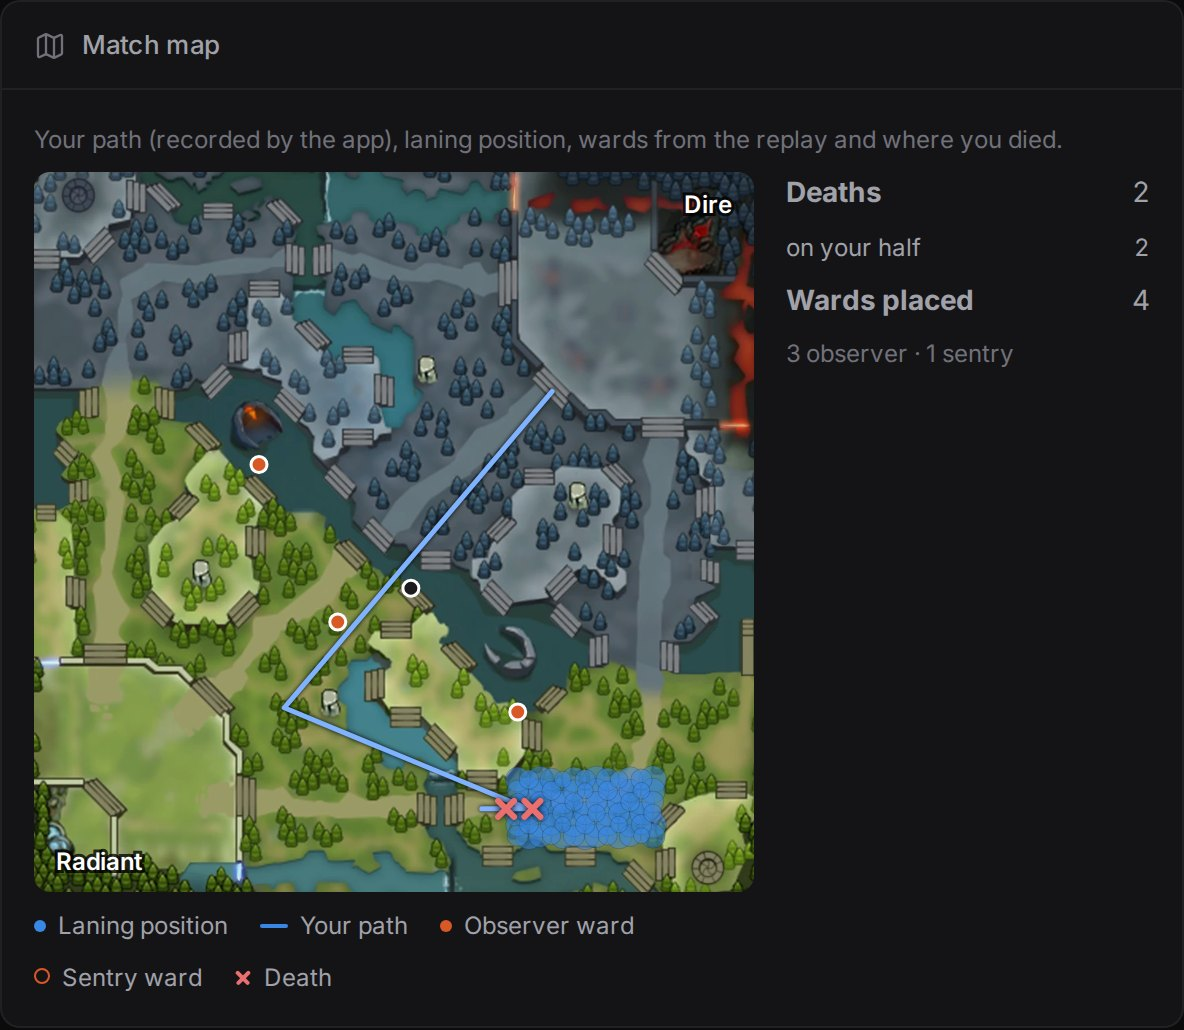
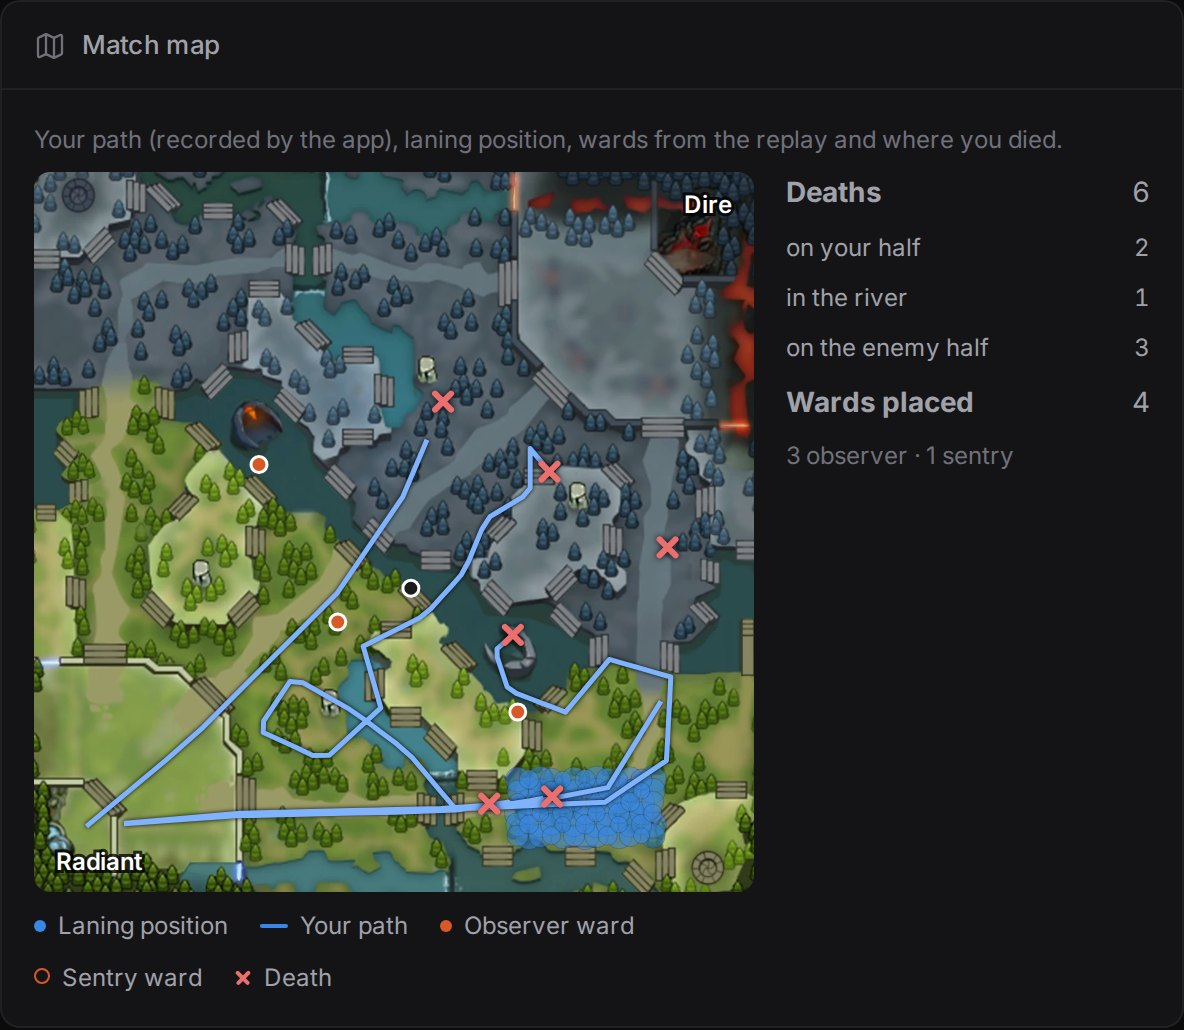
Site map: the real minimap with a believable route and six deaths
The demo match of the site pictures now walks a Radiant safe-lane Juggernaut
route (lane, jungle, mid, Dire jungle, Roshan, a push) with six deaths at
the parsed replay's times. The review map breaks the path at a death and at
a jump no hero can walk, so a respawn no longer draws a line to the fountain.
Site pictures get a version in their URLs so browsers drop the old ones.

Claude-Session: https://claude.ai/code/session_01R8qFseNjtRCaUJVPRqFekm

diff --git a/site/index.html b/site/index.html
@@ -25,7 +25,7 @@
     <link rel="apple-touch-icon" href="assets/icon.png" />
     <link rel="preload" href="assets/fonts/montserrat-cyrillic-wght-normal.woff2" as="font" type="font/woff2" crossorigin />
     <link rel="preload" href="assets/fonts/inter-cyrillic-wght-normal.woff2" as="font" type="font/woff2" crossorigin />
-    <link rel="stylesheet" href="styles.css" />
+    <link rel="stylesheet" href="styles.css?v=2" />
   </head>
   <body>
     <a class="skip" href="#main" data-i18n="skip">Перейти к содержанию</a>
@@ -88,8 +88,8 @@
 
           <div class="hero-stage" aria-hidden="true">
             <figure class="win win-back win-game"><img src="assets/game/ingame-ru.jpg" data-game="ingame" alt="" width="1600" height="900" /></figure>
-            <figure class="win win-front"><img src="assets/app/ru/review-ai.jpg" data-img="review-ai" alt="" width="1080" height="930" /></figure>
-            <img class="hero-card" src="assets/overlay/ru/lowhp.webp" data-ov="lowhp" alt="" width="756" />
+            <figure class="win win-front"><img src="assets/app/ru/review-ai.jpg?v=2" data-img="review-ai" alt="" width="1080" height="930" /></figure>
+            <img class="hero-card" src="assets/overlay/ru/lowhp.webp?v=2" data-ov="lowhp" alt="" width="756" />
           </div>
         </div>
       </section>
@@ -103,32 +103,32 @@
           </header>
           <div class="tiles">
             <article class="tile">
-              <div class="tile-art" style="--bg: url(assets/game/fight.jpg)"><img src="assets/overlay/ru/lowhp.webp" data-ov="lowhp" alt="" loading="lazy" data-i18n-alt="lowhpAlt" /></div>
+              <div class="tile-art" style="--bg: url(assets/game/fight.jpg)"><img src="assets/overlay/ru/lowhp.webp?v=2" data-ov="lowhp" alt="" loading="lazy" data-i18n-alt="lowhpAlt" /></div>
               <h3 data-i18n="lowhpTitle">Мало HP</h3>
               <p data-i18n="lowhpText">Срочная подсказка сразу, пока ещё можно уйти. Остальные — с паузами, чтобы не отвлекать.</p>
             </article>
             <article class="tile">
-              <div class="tile-art" style="--bg: url(assets/game/base.jpg)"><img src="assets/overlay/ru/plan.webp" data-ov="plan" alt="" loading="lazy" data-i18n-alt="planAlt" /></div>
+              <div class="tile-art" style="--bg: url(assets/game/base.jpg)"><img src="assets/overlay/ru/plan.webp?v=2" data-ov="plan" alt="" loading="lazy" data-i18n-alt="planAlt" /></div>
               <h3 data-i18n="planTitle">План на игру</h3>
               <p data-i18n="planText">С пика до 1:30: сколько добиваний нужно к 10:00, ключевой предмет и твоя частая ошибка.</p>
             </article>
             <article class="tile">
-              <div class="tile-art" style="--bg: url(assets/game/forest.jpg)"><img src="assets/overlay/ru/farm.webp" data-ov="farm" alt="" loading="lazy" data-i18n-alt="farmAlt" /></div>
+              <div class="tile-art" style="--bg: url(assets/game/forest.jpg)"><img src="assets/overlay/ru/farm.webp?v=2" data-ov="farm" alt="" loading="lazy" data-i18n-alt="farmAlt" /></div>
               <h3 data-i18n="farmTitle">Отставание по фарму</h3>
               <p data-i18n="farmText">С цифрами: сколько добиваний у тебя и какой темп хороший на этой минуте.</p>
             </article>
             <article class="tile">
-              <div class="tile-art" style="--bg: url(assets/game/hook.jpg)"><img src="assets/overlay/ru/tp.webp" data-ov="tp" alt="" loading="lazy" data-i18n-alt="tpAlt" /></div>
+              <div class="tile-art" style="--bg: url(assets/game/hook.jpg)"><img src="assets/overlay/ru/tp.webp?v=2" data-ov="tp" alt="" loading="lazy" data-i18n-alt="tpAlt" /></div>
               <h3 data-i18n="tpTitle">Свиток телепортации</h3>
               <p data-i18n="tpText">После 10-й минуты напомнит, если ТП нет больше минуты: без него не успеть ни в драку, ни к башне.</p>
             </article>
             <article class="tile">
-              <div class="tile-art" style="--bg: url(assets/game/dark.jpg)"><img src="assets/overlay/ru/spend.webp" data-ov="spend" alt="" loading="lazy" data-i18n-alt="spendAlt" /></div>
+              <div class="tile-art" style="--bg: url(assets/game/dark.jpg)"><img src="assets/overlay/ru/spend.webp?v=2" data-ov="spend" alt="" loading="lazy" data-i18n-alt="spendAlt" /></div>
               <h3 data-i18n="spendTitle">Золото после смерти</h3>
               <p data-i18n="spendText">Умер с лишним золотом — сразу купи части следующего предмета. После 30-й минуты оставит на байбэк.</p>
             </article>
             <article class="tile">
-              <div class="tile-art" style="--bg: url(assets/game/chrono.jpg)"><img src="assets/overlay/ru/timer.webp" data-ov="timer" alt="" loading="lazy" data-i18n-alt="timerAlt" /></div>
+              <div class="tile-art" style="--bg: url(assets/game/chrono.jpg)"><img src="assets/overlay/ru/timer.webp?v=2" data-ov="timer" alt="" loading="lazy" data-i18n-alt="timerAlt" /></div>
               <h3 data-i18n="timerTitle">Таймеры карты</h3>
               <p data-i18n="timerText">За 20 секунд: руны, святилища, лотосы, Торментор. Саппорту — стаки и варды. Роль тренер поймёт по линии сам.</p>
             </article>
@@ -183,7 +183,7 @@
           </header>
           <div class="steps">
             <figure class="step">
-              <div class="step-shot"><img src="assets/app/ru/home.jpg" data-img="home" alt="" loading="lazy" data-i18n-alt="step1Alt" /></div>
+              <div class="step-shot"><img src="assets/app/ru/home.jpg?v=2" data-img="home" alt="" loading="lazy" data-i18n-alt="step1Alt" /></div>
               <figcaption data-i18n="step1">Запусти Доту — тренер увидит матч сам через официальную интеграцию Valve</figcaption>
             </figure>
             <figure class="step">
@@ -191,7 +191,7 @@
               <figcaption data-i18n="step2">Играй: короткая подсказка появится поверх игры, когда она нужна</figcaption>
             </figure>
             <figure class="step">
-              <div class="step-shot"><img src="assets/app/ru/review.jpg" data-img="review" alt="" loading="lazy" data-i18n-alt="step3Alt" /></div>
+              <div class="step-shot"><img src="assets/app/ru/review.jpg?v=2" data-img="review" alt="" loading="lazy" data-i18n-alt="step3Alt" /></div>
               <figcaption data-i18n="step3">После матча открой разбор: оценка, ошибки и что делать в следующей игре</figcaption>
             </figure>
           </div>
@@ -202,8 +202,8 @@
       <section class="section" id="review">
         <div class="wrap split">
           <div class="split-stage" aria-hidden="true">
-            <figure class="win win-a"><img src="assets/app/ru/review.jpg" data-img="review" alt="" loading="lazy" width="1080" height="930" /></figure>
-            <figure class="win win-b"><img src="assets/app/ru/progress-ai.jpg" data-img="progress-ai" alt="" loading="lazy" width="1080" height="930" /></figure>
+            <figure class="win win-a"><img src="assets/app/ru/review.jpg?v=2" data-img="review" alt="" loading="lazy" width="1080" height="930" /></figure>
+            <figure class="win win-b"><img src="assets/app/ru/progress-ai.jpg?v=2" data-img="progress-ai" alt="" loading="lazy" width="1080" height="930" /></figure>
           </div>
           <div class="split-copy">
             <h2 data-i18n="reviewTitle">Персональный тренер после матча</h2>
@@ -233,15 +233,15 @@
           </header>
           <div class="steps">
             <figure class="step">
-              <div class="step-shot step-crop"><img src="assets/shots/ru/map.jpg" data-shot="map" alt="" loading="lazy" data-i18n-alt="mapAlt" /></div>
+              <div class="step-shot step-crop"><img src="assets/shots/ru/map.jpg?v=2" data-shot="map" alt="" loading="lazy" data-i18n-alt="mapAlt" /></div>
               <figcaption data-i18n="mapCap">Карта матча: где ходил и где умирал. Часто гибнешь на половине врага — это попадёт в разбор</figcaption>
             </figure>
             <figure class="step">
-              <div class="step-shot step-crop"><img src="assets/shots/ru/build.jpg" data-shot="build" alt="" loading="lazy" data-i18n-alt="buildAlt" /></div>
+              <div class="step-shot step-crop"><img src="assets/shots/ru/build.jpg?v=2" data-shot="build" alt="" loading="lazy" data-i18n-alt="buildAlt" /></div>
               <figcaption data-i18n="buildCap">Сборка: процент побед по времени покупки каждого предмета и сборка про-игроков</figcaption>
             </figure>
             <figure class="step">
-              <div class="step-shot step-crop fit"><img src="assets/shots/ru/chart.jpg" data-shot="chart" alt="" loading="lazy" data-i18n-alt="chartAlt" /></div>
+              <div class="step-shot step-crop fit"><img src="assets/shots/ru/chart.jpg?v=2" data-shot="chart" alt="" loading="lazy" data-i18n-alt="chartAlt" /></div>
               <figcaption data-i18n="chartCap">Добивания, золото и опыт по минутам против хорошего темпа, со смертями на графике</figcaption>
             </figure>
           </div>
@@ -334,6 +334,6 @@
       </defs>
     </svg>
 
-    <script src="app.js" defer></script>
+    <script src="app.js?v=2" defer></script>
   </body>
 </html>

diff --git a/site/app.js b/site/app.js
@@ -5,6 +5,8 @@
   const REPO = "makquella/dota-ai-coach";
   const RELEASES = `https://github.com/${REPO}/releases/latest`;
   const LANG_KEY = "dac.lang";
+  // Bump with every reshoot of the pictures (scripts/site-shots) and in index.html.
+  const SHOTS_VERSION = "2";
 
   const EN = {
     title: "Dota AI Coach — a Dota 2 coach right in your game",
@@ -148,18 +150,19 @@
     }
     remember("title", document.title);
     document.title = table.title || RU.title;
-    // Screenshots exist in both languages.
+    // Screenshots exist in both languages. SHOTS_VERSION (also in index.html) is
+    // bumped with every reshoot, so browsers do not keep the old pictures.
     document.querySelectorAll("img[data-img]").forEach((img) => {
-      img.src = `assets/app/${lang}/${img.dataset.img}.jpg`;
+      img.src = `assets/app/${lang}/${img.dataset.img}.jpg?v=${SHOTS_VERSION}`;
     });
     document.querySelectorAll("img[data-ov]").forEach((img) => {
-      img.src = `assets/overlay/${lang}/${img.dataset.ov}.webp`;
+      img.src = `assets/overlay/${lang}/${img.dataset.ov}.webp?v=${SHOTS_VERSION}`;
     });
     document.querySelectorAll("img[data-game]").forEach((img) => {
       img.src = `assets/game/${img.dataset.game}-${lang}.jpg`;
     });
     document.querySelectorAll("img[data-shot]").forEach((img) => {
-      img.src = `assets/shots/${lang}/${img.dataset.shot}.jpg`;
+      img.src = `assets/shots/${lang}/${img.dataset.shot}.jpg?v=${SHOTS_VERSION}`;
     });
     document.querySelectorAll(".lang [data-lang]").forEach((button) => {
       button.setAttribute("aria-pressed", String(button.dataset.lang === lang));

diff --git a/frontend/launcher/renderer/charts.js b/frontend/launcher/renderer/charts.js
@@ -329,6 +329,8 @@
   // Game map pictures: "ok" once loaded, "fail" when it could not be (offline on
   // the first run): the schematic map is drawn instead.
   const mapImages = new Map();
+  // Map units per second no hero walks faster than (max move speed 550 plus a blink).
+  const MAP_WALK_SPEED = 800;
 
   /**
    * The Dota map with the match on top: the hero's path, laning position, wards
@@ -434,10 +436,18 @@
 
     const path = options.path || [];
     if (path.length > 1) {
-      // A gap of more than a minute (death, disconnect) starts a new segment.
+      // A new segment after a death (respawn in the fountain), a gap of more than a
+      // minute (disconnect) or a jump no hero can walk (teleport).
+      const deathTimes = (options.deaths || []).map((death) => death.t).filter((t) => typeof t === "number");
+      const moved = (a, b) => Math.hypot(b.x - a.x, b.y - a.y) > MAP_WALK_SPEED * Math.max(1, b.t - a.t);
       let d = "";
       path.forEach((point, index) => {
-        const jump = index === 0 || point.t - path[index - 1].t > 60;
+        const prev = path[index - 1];
+        const jump =
+          index === 0 ||
+          point.t - prev.t > 60 ||
+          deathTimes.some((t) => t > prev.t && t <= point.t) ||
+          moved(prev, point);
         d += `${jump ? "M" : "L"}${px(point.x).toFixed(1)},${py(point.y).toFixed(1)} `;
       });
       el("path", { d: d.trim(), class: "map-path" }, svg);

diff --git a/scripts/site-shots/demo_data.py b/scripts/site-shots/demo_data.py
@@ -166,3 +166,63 @@ def vary(recent: list[dict[str, Any]]) -> dict[int, dict[str, Any]]:
             last_hits=me["last_hits"],
         )
     return matches
+
+
+# --- the recorded match on the map --------------------------------------------------
+# A believable game of a Radiant safe-lane Juggernaut (live GSI world coordinates:
+# centre 0, Radiant bottom-left): two lane deaths to Shadow Fiend, then farm, and
+# deaths in the Dire jungle, at Roshan and at a Dire tower. The death times are those
+# of the parsed replay (opendota_match's defaults), so every death gets its place.
+FOUNTAIN = (-7000, -6700)
+RESPAWN = 20
+ROUTE_DEATHS = (240, 420, 1300, 1500, 2100, 2250)
+# (clock, x, y) waypoints of each life; the hero walks straight between them.
+LIVES: list[list[tuple[int, int, int]]] = [
+    [(-60, *FOUNTAIN), (-30, -5600, -6500), (0, -3200, -6450), (40, 900, -6350),
+     (90, 2300, -6200), (130, 1500, -6300), (180, 2600, -6150), (225, 1900, -6250),
+     (240, 2300, -6150)],
+    [(260, *FOUNTAIN), (300, -3500, -6450), (340, 1200, -6350), (380, 2900, -6150),
+     (420, 3700, -6000)],
+    [(440, *FOUNTAIN), (480, -3600, -6450), (520, 800, -6350), (560, 2400, -6200),
+     (600, 1400, -6300), (650, 300, -5000), (700, -900, -4100), (760, -2300, -3300),
+     (820, -3100, -4500), (880, -1600, -5200), (930, -300, -4000), (990, -700, -2600),
+     (1040, 700, -1900), (1100, 1600, -900), (1150, 2100, 300), (1210, 3100, 900),
+     (1260, 3100, 1900), (1300, 3600, 1300)],
+    [(1320, *FOUNTAIN), (1360, -4600, -4700), (1400, -2600, -2700), (1440, -1300, -1400),
+     (1470, 200, 800), (1500, 1300, 3400)],
+    [(1520, *FOUNTAIN), (1560, -3500, -6400), (1610, 1500, -6300), (1680, 4800, -6150),
+     (1740, 6200, -5200), (1800, 6300, -3300), (1860, 4900, -2900), (1920, 3900, -4100),
+     (1990, 2600, -3600), (2050, 2300, -2700), (2100, 2750, -2300)],
+    [(2120, *FOUNTAIN), (2160, -3500, -6400), (2200, 2600, -6250), (2230, 6000, -5600),
+     (2250, 6300, 1400)],
+    [(2270, *FOUNTAIN), (2280, *FOUNTAIN)],
+]
+
+
+def route_position(t: int) -> tuple[int, int] | None:
+    """Where the hero stands at clock `t`; None while dead."""
+    for life in LIVES:
+        if life[0][0] <= t <= life[-1][0]:
+            for (t0, x0, y0), (t1, x1, y1) in zip(life, life[1:], strict=False):
+                if t0 <= t <= t1:
+                    k = (t - t0) / (t1 - t0) if t1 > t0 else 0
+                    return round(x0 + (x1 - x0) * k), round(y0 + (y1 - y0) * k)
+    return None
+
+
+def with_route(payloads: list[dict[str, Any]]) -> list[dict[str, Any]]:
+    """gsi_match_stream payloads (no deaths of their own) moved along LIVES."""
+    for payload in payloads:
+        t = payload["map"]["clock_time"]
+        deaths = sum(1 for d in ROUTE_DEATHS if d <= t)
+        payload["player"]["deaths"] = deaths
+        position = route_position(t)
+        hero = payload["hero"]
+        dead = position is None or any(d <= t < d + RESPAWN for d in ROUTE_DEATHS)
+        hero.update(alive=not dead, health_percent=0 if dead else 80)
+        hero["respawn_seconds"] = RESPAWN if dead else 0
+        if dead:
+            payload["player"]["gold"] = 900
+        else:
+            hero.update(xpos=position[0], ypos=position[1])
+    return payloads

diff --git a/scripts/site-shots/demo_backend.py b/scripts/site-shots/demo_backend.py
@@ -25,7 +25,7 @@ from match_fixtures import ME, FakeOpenDota, gsi_match_stream, recent_matches  #
 
 from app.main import app  # noqa: E402
 from app.player_api import PLAYER_SERVICE  # noqa: E402
-from demo_data import DemoLLM, vary  # noqa: E402
+from demo_data import DemoLLM, vary, with_route  # noqa: E402
 
 
 def main() -> None:
@@ -43,8 +43,8 @@ def main() -> None:
         client.post("/player/link", json={"steam": str(ME)})
         # The first match was also recorded live: the hero's path and deaths on the map.
         first = recent[0]["match_id"]
-        for payload in gsi_match_stream(
-            match_id=first, minutes=38, positions=True, win=False, death_minutes=(4, 7, 18, 19, 20)
+        for payload in with_route(
+            gsi_match_stream(match_id=first, minutes=38, win=False, death_minutes=())
         ):
             client.post("/gsi", json=payload)
         PLAYER_SERVICE.jobs.run_pending(until=float("inf"))

diff --git a/scripts/site-shots/README.md b/scripts/site-shots/README.md
@@ -37,3 +37,7 @@ backend/.venv/bin/python scripts/site-shots/game_frames.py /tmp/site-shots/raw
 - `game_frames.py` — six store screenshots cropped for the "In game" tiles,
   the in-game view (Juggernaut at 1:12 with the real plan card where the
   overlay sits, at the large card size) and the 21 carry portraits.
+
+After a reshoot bump `SHOTS_VERSION` in `site/app.js` and the matching `?v=` of the
+`assets/{app,overlay,shots}/` pictures in `site/index.html`: the site sends pictures
+with a 4-hour cache, so returning visitors would see the old ones otherwise.
